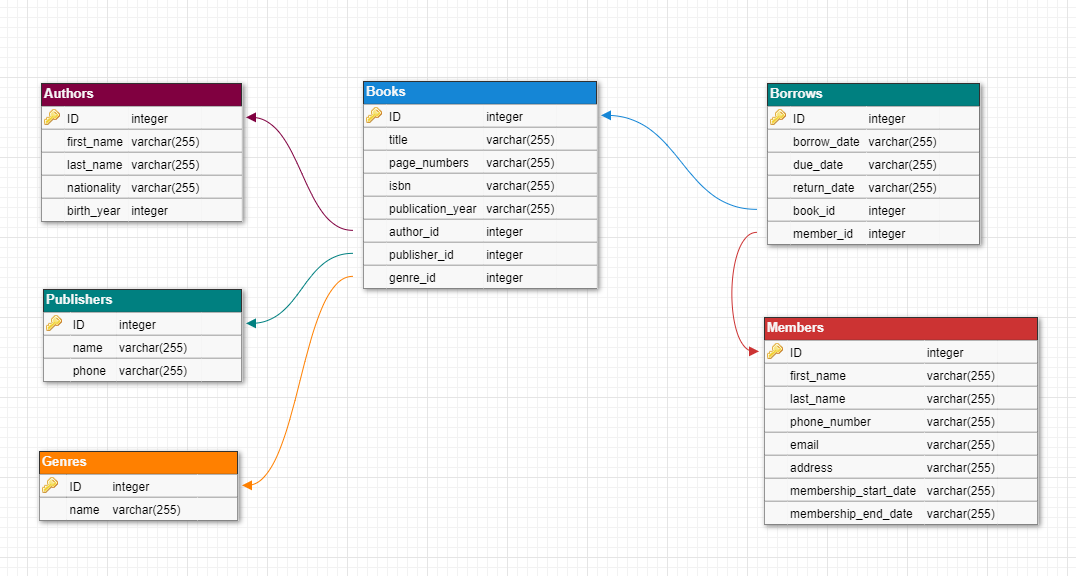
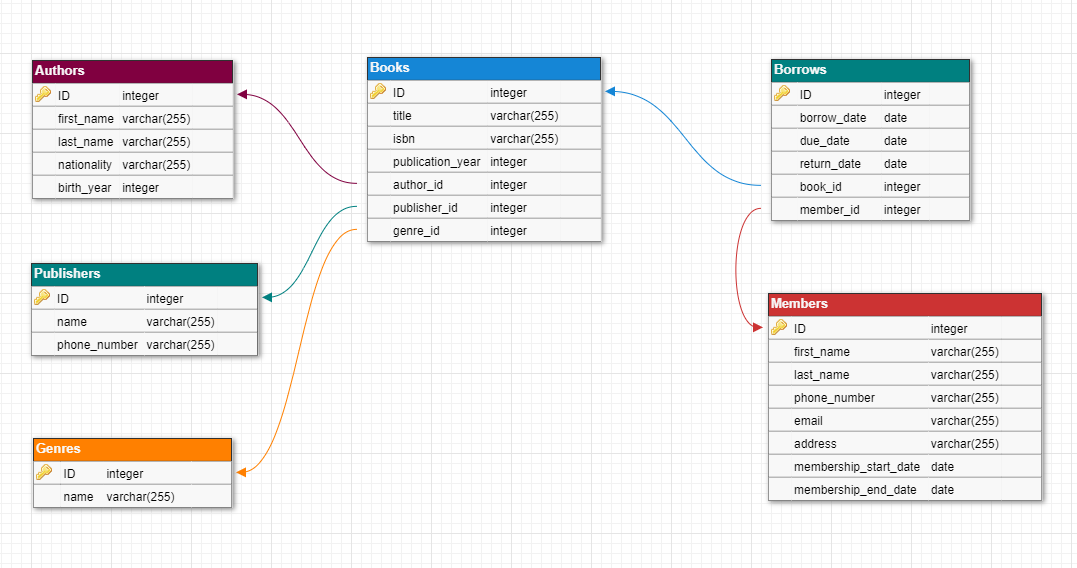
Added models

diff --git a/src/main/java/com/example/library/models/Member.java b/src/main/java/com/example/library/models/Member.java
@@ -1,0 +1,82 @@
+package com.example.library.models;
+
+import jakarta.persistence.*;
+
+@Entity
+@Table(name = "members")
+public class Member {
+
+    @Id
+    @GeneratedValue(strategy = GenerationType.IDENTITY)
+    private int memberId;
+
+    private String firstName;
+    private String lastName;
+    private String phoneNumber;
+    private String email;
+    private String address;
+    private String membershipStartDate;
+    private String membershipEndDate;
+
+    public Member(){}
+
+    public int getMemberId() {
+        return memberId;
+    }
+
+    public String getFirstName() {
+        return firstName;
+    }
+
+    public void setFirstName(String firstName) {
+        this.firstName = firstName;
+    }
+
+    public String getLastName() {
+        return lastName;
+    }
+
+    public void setLastName(String lastName) {
+        this.lastName = lastName;
+    }
+
+    public String getPhoneNumber() {
+        return phoneNumber;
+    }
+
+    public void setPhoneNumber(String phoneNumber) {
+        this.phoneNumber = phoneNumber;
+    }
+
+    public String getEmail() {
+        return email;
+    }
+
+    public void setEmail(String email) {
+        this.email = email;
+    }
+
+    public String getAddress() {
+        return address;
+    }
+
+    public void setAddress(String address) {
+        this.address = address;
+    }
+
+    public String getMembershipStartDate() {
+        return membershipStartDate;
+    }
+
+    public void setMembershipStartDate(String membershipStartDate) {
+        this.membershipStartDate = membershipStartDate;
+    }
+
+    public String getMembershipEndDate() {
+        return membershipEndDate;
+    }
+
+    public void setMembershipEndDate(String membershipEndDate) {
+        this.membershipEndDate = membershipEndDate;
+    }
+}

diff --git a/src/main/java/com/example/library/models/Author.java b/src/main/java/com/example/library/models/Author.java
@@ -1,0 +1,55 @@
+package com.example.library.models;
+
+import jakarta.persistence.*;
+
+@Entity
+@Table(name = "authors")
+public class Author {
+
+    @Id
+    @GeneratedValue(strategy = GenerationType.IDENTITY)
+    private int authorId;
+
+    private String firstName;
+    private String lastName;
+    private String nationality;
+    private int birthYear;
+
+    public Author(){}
+
+    public int getAuthorId() {
+        return authorId;
+    }
+
+    public String getFirstName() {
+        return firstName;
+    }
+
+    public void setFirstName(String firstName) {
+        this.firstName = firstName;
+    }
+
+    public String getLastName() {
+        return lastName;
+    }
+
+    public void setLastName(String lastName) {
+        this.lastName = lastName;
+    }
+
+    public String getNationality() {
+        return nationality;
+    }
+
+    public void setNationality(String nationality) {
+        this.nationality = nationality;
+    }
+
+    public int getBirthYear() {
+        return birthYear;
+    }
+
+    public void setBirthYear(int birthYear) {
+        this.birthYear = birthYear;
+    }
+}

diff --git a/src/main/java/com/example/library/models/Borrow.java b/src/main/java/com/example/library/models/Borrow.java
@@ -1,0 +1,48 @@
+package com.example.library.models;
+
+import jakarta.persistence.*;
+
+import java.util.Date;
+
+@Entity
+@Table(name = "borrows")
+public class Borrow {
+
+    @Id
+    @GeneratedValue(strategy = GenerationType.IDENTITY)
+    private int borrowId;
+
+    private Date borrowDate;
+    private Date dueDate;
+    private Date returnDate;
+
+    public Borrow(){}
+
+    public int getBorrowId() {
+        return borrowId;
+    }
+
+    public Date getBorrowDate() {
+        return borrowDate;
+    }
+
+    public void setBorrowDate(Date borrowDate) {
+        this.borrowDate = borrowDate;
+    }
+
+    public Date getDueDate() {
+        return dueDate;
+    }
+
+    public void setDueDate(Date dueDate) {
+        this.dueDate = dueDate;
+    }
+
+    public Date getReturnDate() {
+        return returnDate;
+    }
+
+    public void setReturnDate(Date returnDate) {
+        this.returnDate = returnDate;
+    }
+}

diff --git a/src/main/java/com/example/library/models/Book.java b/src/main/java/com/example/library/models/Book.java
@@ -1,0 +1,46 @@
+package com.example.library.models;
+
+import jakarta.persistence.*;
+
+@Entity
+@Table(name = "books")
+public class Book {
+
+    @Id
+    @GeneratedValue(strategy = GenerationType.IDENTITY)
+    private int bookId;
+
+    private String title;
+    private String isbn;
+    private int publicationYear;
+
+    public Book(){}
+
+    public int getBookId() {
+        return bookId;
+    }
+
+    public String getTitle() {
+        return title;
+    }
+
+    public void setTitle(String title) {
+        this.title = title;
+    }
+
+    public String getIsbn() {
+        return isbn;
+    }
+
+    public void setIsbn(String isbn) {
+        this.isbn = isbn;
+    }
+
+    public int getPublicationYear() {
+        return publicationYear;
+    }
+
+    public void setPublicationYear(int publicationYear) {
+        this.publicationYear = publicationYear;
+    }
+}

diff --git a/src/main/java/com/example/library/models/Publisher.java b/src/main/java/com/example/library/models/Publisher.java
@@ -1,0 +1,37 @@
+package com.example.library.models;
+
+import jakarta.persistence.*;
+
+@Entity
+@Table(name = "publishers")
+public class Publisher {
+
+    @Id
+    @GeneratedValue(strategy = GenerationType.IDENTITY)
+    private int publisherId;
+
+    private String name;
+    private String phoneNumber;
+
+    public Publisher(){}
+
+    public int getPublisherId() {
+        return publisherId;
+    }
+
+    public String getName() {
+        return name;
+    }
+
+    public void setName(String name) {
+        this.name = name;
+    }
+
+    public String getPhoneNumber() {
+        return phoneNumber;
+    }
+
+    public void setPhoneNumber(String phoneNumber) {
+        this.phoneNumber = phoneNumber;
+    }
+}

diff --git a/src/main/java/com/example/library/models/Genre.java b/src/main/java/com/example/library/models/Genre.java
@@ -1,0 +1,28 @@
+package com.example.library.models;
+
+import jakarta.persistence.*;
+
+@Entity
+@Table(name = "genres")
+public class Genre {
+
+    @Id
+    @GeneratedValue(strategy = GenerationType.IDENTITY)
+    private int genreId;
+
+    private String name;
+
+    public Genre(){}
+
+    public int getGenreId() {
+        return genreId;
+    }
+
+    public String getName() {
+        return name;
+    }
+
+    public void setName(String name) {
+        this.name = name;
+    }
+}
